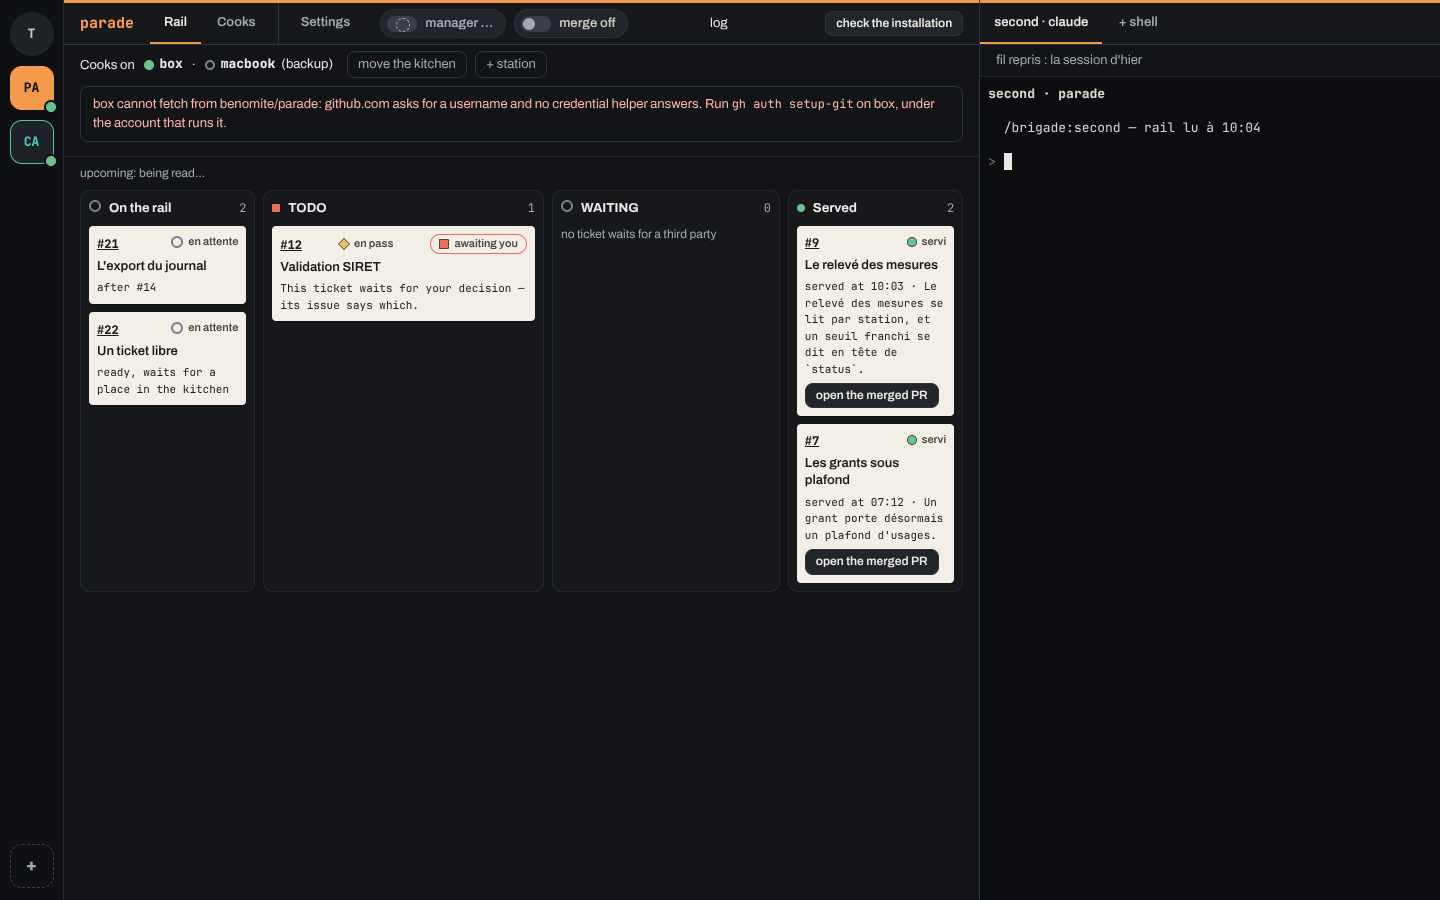
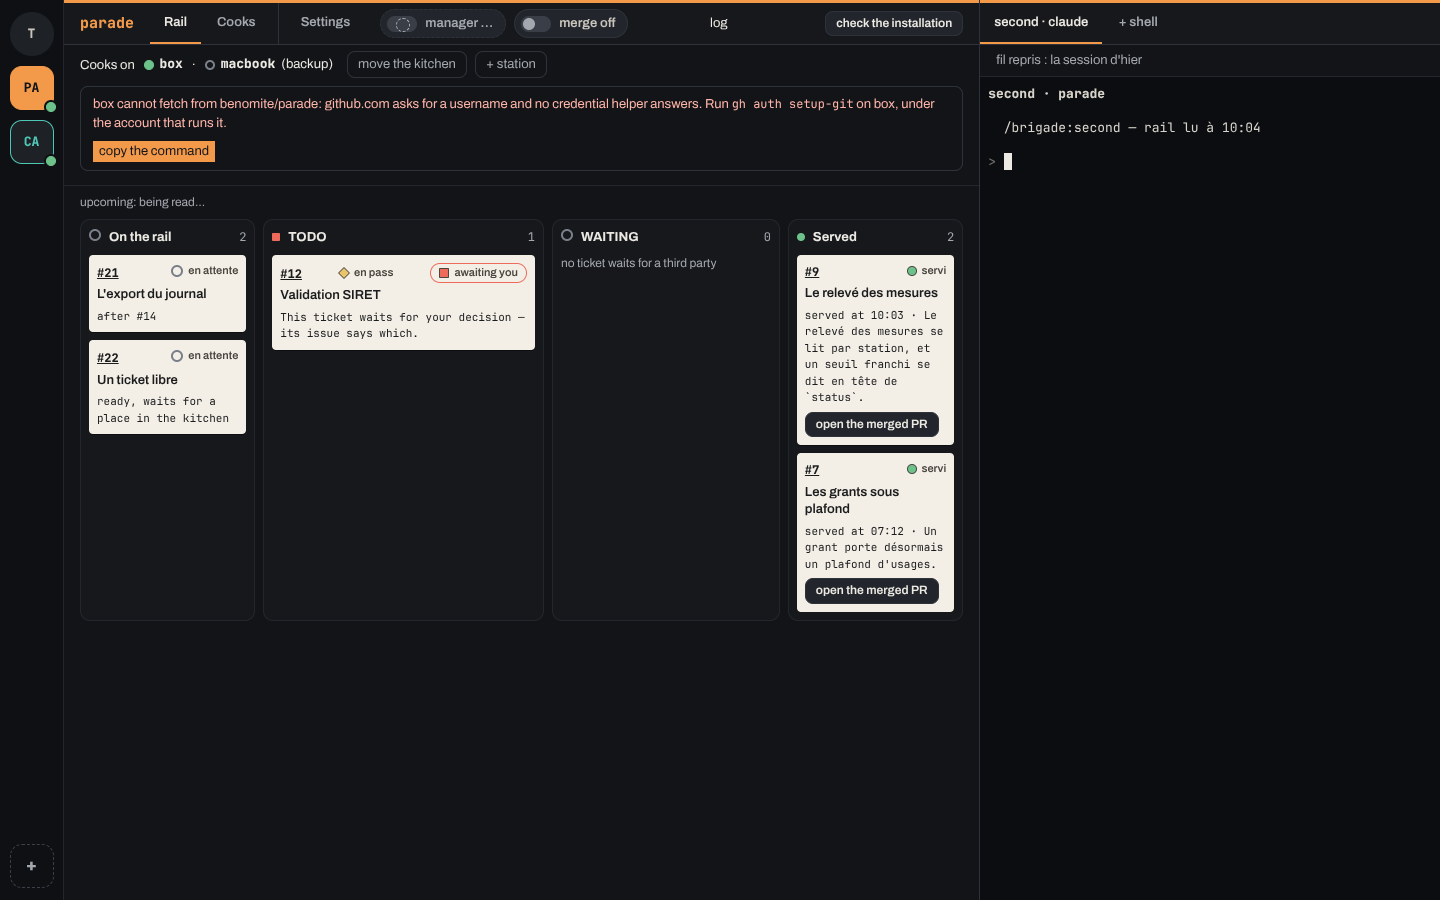
fix(#1119): le geste d'un accès refusé a son bouton, « copy the command », en plus de la commande dite

Changed region(s): [[0.0625, 0.1556, 0.5, 0.4978], [0.5312, 0.2178, 0.6875, 0.6844]]

diff --git a/app/src/vue/onboarding/depot-retenu.js b/app/src/vue/onboarding/depot-retenu.js
@@ -7,6 +7,7 @@
 // (projets/demande.ts) ; le runtime efface l'état dès que le geste est fait, et la page, relue, revient
 // à son message. Ce module ne touche pas `document` : il reçoit de quoi créer un élément (briques.js).
 
+import { boutonAction } from "../briques.js";
 import { phrase, prochainEssaiDit } from "./parcours.js";
 
 /** @typedef {import("../briques.js").Fabrique} Fabrique */
@@ -23,28 +24,43 @@ function cree(doc, balise, texte) {
   return pose;
 }
 
+export const COPIER = "copy the command";
+export const COPIEE = "copied";
+
+// La commande du geste : ce que le geste dit entre accents graves — sinon, tout le geste.
+/** @param {Acces} acces */
+export const commandeDe = (acces) => /`([^`]+)`/.exec(acces.geste)?.[1] ?? acces.geste;
+
 // Une phrase : la raison, puis le geste. Le geste dit sa commande entre accents graves, posée en code.
-/** @param {Fabrique} doc @param {Acces} acces */
-function accesDit(doc, acces) {
+// Le geste se fait sur la machine de la station, que l'app ne pilote pas : son bouton copie la commande.
+/** @param {Fabrique} doc @param {Acces} acces @param {(commande: string) => void} copier */
+function accesDit(doc, acces, copier) {
   const detail = DETAIL_DE_GIT.exec(acces.raison)?.[1];
   const raison = acces.raison.replace(DETAIL_DE_GIT, "").replace(/\.?$/, ".");
   const dit = phrase(doc, "p", `${raison} ${acces.geste}`);
   if (detail !== undefined) dit.title = `git: ${detail}`;
-  return dit;
+  const geste = boutonAction(doc, COPIER, () => {
+    copier(commandeDe(acces));
+    const bouton = geste.children[0];
+    if (bouton !== undefined) bouton.textContent = COPIEE;
+  }, { recommande: true });
+  const pose = cree(doc, "div");
+  pose.append(dit, geste);
+  return pose;
 }
 
 // Le bloc à poser sous la ligne des stations, ou null : rien ne retient la cuisine. L'accès refusé
 // prime sur l'échec du worktree — c'est lui que le geste lève — mais l'heure du prochain essai se dit
 // avec, quand le worktree en a une.
-/** @param {Fabrique} doc @param {{ acces?: Acces | null, worktree?: Echec | null, maintenant: number }} retenu */
-export function poserDepotRetenu(doc, { acces, worktree, maintenant }) {
+/** @param {Fabrique} doc @param {{ acces?: Acces | null, worktree?: Echec | null, maintenant: number, copier: (commande: string) => void }} retenu */
+export function poserDepotRetenu(doc, { acces, worktree, maintenant, copier }) {
   const bloque = acces ?? worktree?.acces ?? null;
   if (bloque === null && (worktree === null || worktree === undefined)) return null;
   const pose = cree(doc, "div");
   pose.className = "depot-retenu";
   pose.role = "alert";
   if (bloque !== null) {
-    pose.append(accesDit(doc, bloque));
+    pose.append(accesDit(doc, bloque, copier));
     if (worktree !== null && worktree !== undefined) pose.append(cree(doc, "p", prochainEssaiDit(worktree.prochainEssai, maintenant)));
   } else if (worktree !== null && worktree !== undefined) {
     const raison = cree(doc, "p", `The worktree of #${worktree.ticket} could not be prepared: ${worktree.raison}`);

diff --git a/app/test/projets/depot-retenu.test.ts b/app/test/projets/depot-retenu.test.ts
@@ -24,7 +24,8 @@ import type { Panne } from "../../src/pannes/pannes.ts";
 import { lireSuivi } from "../../src/projets/demande.ts";
 import { calibrageRecommande, EFFORTS, machineProposee, MODELES, type ProjetVu, type VuDesProjets } from "../../src/projets/projets.ts";
 import type { VuDesStations } from "../../src/stations/stations.ts";
-import { type Faux, jouerLaVue, repos } from "../aides/fausse-vue.ts";
+import { COPIEE, COPIER, poserDepotRetenu } from "../../src/vue/onboarding/depot-retenu.js";
+import { Faux as Fabrique, type Faux, jouerLaVue, repos } from "../aides/fausse-vue.ts";
 
 const A = "2026-10-19T12:00:00.000Z";
 const BOX = { id: "g1", nom: "parade-box", machine: "Linux 6.1.0", coeurs: 8, etat: "en-ligne", ligne: "online · version 1.4.0 · no project", pannes: [] as Panne[], dit: "online", version: "1.4.0", projets: [] as string[], max: null } as const;
@@ -103,6 +104,24 @@ test("l'accès au dépôt refusé : une phrase donne la raison et le geste, sans
   assert.equal(bloc.dessous("p").find((p) => /cannot fetch/.test(p.textContent))?.title, "git: fatal: could not read Username for 'https://github.com'");
   assert.doesNotMatch(bloc.textContent, /within a minute/);
   assert.equal(jouee.appels.some(({ geste }) => geste === "confierAUneStation"), false);
+  // Le geste se fait sur la machine de la station : l'écran offre un bouton, recommandé, qui en copie la commande.
+  const boutons = bloc.dessous("button").filter((b) => b.textContent === COPIER);
+  assert.equal(boutons.length, 1, "un bouton « copy the command »");
+  assert.equal(boutons[0]?.className, "recommande");
+});
+
+test("« copy the command » copie la commande du geste seule, et le dit", () => {
+  const copiees: string[] = [];
+  const doc = { createElement: (balise: string) => new Fabrique(balise) };
+  const pose = poserDepotRetenu(doc, { acces: ACCES, maintenant: 0, copier: (commande) => copiees.push(commande) }) as unknown as Faux;
+  const bouton = pose.dessous("button")[0] ?? assert.fail("pas de bouton");
+  assert.equal(bouton.textContent, COPIER);
+  bouton.click();
+  assert.deepEqual(copiees, ["gh auth setup-git"]);
+  assert.equal(bouton.textContent, COPIEE);
+  // Un échec sans accès refusé n'a pas de commande à copier : pas de bouton.
+  const sans = poserDepotRetenu(doc, { worktree: { ...ECHEC, acces: null }, maintenant: 0, copier: () => assert.fail() }) as unknown as Faux;
+  assert.equal(sans.dessous("button").length, 0);
 });
 
 test("un worktree impossible à préparer : la raison de l'échec et l'heure du prochain essai", async () => {

diff --git a/app/src/vue/vue.js b/app/src/vue/vue.js
@@ -5354,7 +5354,7 @@ function poserStationsDuProjet() {
   ouvrirLaConfiance.hidden = confiance !== undefined || demenagement !== undefined || !lues;
   const vu = projetsVus?.projets.find(({ nom }) => nom === projet.nom);
   const onboarding = vu?.onboarding ?? null;
-  const retenu = poserDepotRetenu(document, { acces: vu?.acces ?? null, worktree: vu?.worktree ?? null, maintenant: Date.now() });
+  const retenu = poserDepotRetenu(document, { acces: vu?.acces ?? null, worktree: vu?.worktree ?? null, maintenant: Date.now(), copier: (commande) => void navigator.clipboard.writeText(commande) });
   depotRetenu.hidden = retenu === null;
   depotRetenu.replaceChildren(...(retenu === null ? [] : [retenu]));
   // La station dit ce qui la retient : la phrase qui promet de se préparer « within a minute » ne se dit plus.

diff --git a/app/src/vue/vue.css b/app/src/vue/vue.css
@@ -593,6 +593,12 @@ main > header,
   border: 1px solid var(--trait);
   border-radius: var(--rayon-bouton);
 }
+#stations-du-projet .depot-retenu > div {
+  display: flex;
+  flex-direction: column;
+  align-items: flex-start;
+  gap: 8px;
+}
 /* Le choix de la cuisine (ticket 1107) : une carte, comme dans la maquette. Sa phrase en tête, puis
    chaque partie sous son petit titre — la machine principale, les renforts, les cooks, les réglages
    avancés —, une machine par ligne, entière, cliquable d'un bout à l'autre. Aucun libellé n'est

diff --git a/docs/app.md b/docs/app.md
@@ -908,7 +908,8 @@ sur le rail). Les pages qu'il ouvre sont celles que la station a publiées, et a
 Sous la ligne des stations — et sur l'onglet Rail comme sur Cooks, puisque c'est ce qui t'attend —, un bloc
 rouge dit en une phrase la raison puis le geste (`parade-box cannot fetch from benomite/parade: … Run
 gh auth setup-git on parade-box, under the account that runs it.`, la commande en code, le détail de git au
-survol), ou, pour un worktree, `The worktree of #433 could not be prepared: <raison>` et
+survol), et un bouton recommandé « copy the command » qui copie la commande seule — le geste se fait sur la
+machine de la station, que l'app ne pilote pas), ou, pour un worktree, `The worktree of #433 could not be prepared: <raison>` et
 `Next retry at 10:14 AM, in 10 min.`. Tant qu'il tient, la phrase « prepares it within a minute » ne se dit
 plus. Sans l'un ni l'autre, rien ne change. La station l'efface quand le geste est fait : la page relue
 (chaque lecture des stations) revient à son message, sans recharger l'app. Le module est
